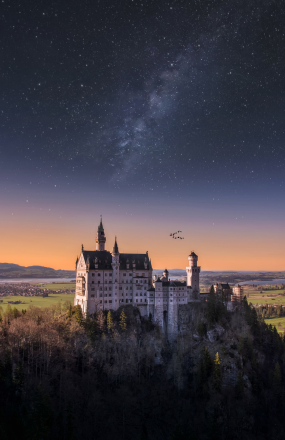
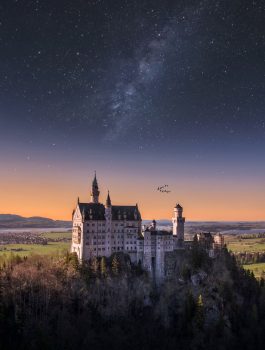
#change to experience Austria

diff --git a/Experience-Austria.html b/Experience-Austria.html
@@ -191,16 +191,30 @@ Come soak up this travel experience with your family and friends and leave with 
 
             <!-- swiper slides -->
             <div class="swiper-wrapper">
-              <div class="swiper-slide explore-slide" style="background: url('./assets/images/slider-1.svg');">
+              <div class="swiper-slide explore-slide" style="background: url('./assets/images/Neuchwanstein-Castle.png');">
                 <h2>Neuchwanstein castle</h2>
               </div>
 
-              <div class="swiper-slide explore-slide" style="background: url('./assets/images/slider-1.svg');">
+              <div class="swiper-slide explore-slide" style="background: url('./assets/images/Highline 179 - Austria.png');">
                 <h2>Self drive to highline 179</h2>
               </div>
 
-              <div class="swiper-slide explore-slide" style="background: url('./assets/images/slider-1.svg');">
+              <div class="swiper-slide explore-slide" style="background: url('./assets/images/Alpine Coaster - ride.png');">
                 <h2>Imst alpine coaster</h2>
+              </div>
+              <div class="swiper-slide explore-slide" style="background: url('./assets/images/Area-47.png');">
+                <h2>Area 47</h2>
+              </div>
+
+              <div class="swiper-slide explore-slide" style="background: url('./assets/images/Solden - Austria.png');">
+                 <h2>Solden 007 elements </h2>
+              </div>
+
+              <div class="swiper-slide explore-slide" style="background: url('./assets/images/Aquadome - Austria.png');">
+                <h2>aquadome</h2>
+              </div>
+              <div class="swiper-slide explore-slide" style="background: url('./assets/images/Paragliding - Austria.png');">
+                <h2>Paragliding in Tyrol</h2>
               </div>
             </div>
             <!-- !swiper slides -->
@@ -435,12 +449,12 @@ Standing 3,040 metres above sea level, this 1,300 square metres space is also fa
   
               <!-- swiper slides -->
               <div class="swiper-wrapper">
-                <div class="swiper-slide experience-slide" style="background: url('./assets/images/instagram-bg.svg');">
-                  <img class="profile-photo" src="assets/images/profile-photo.svg" alt="profile-photo">
+                <div class="swiper-slide experience-slide" style="background: url('./assets/images/Hallstatt - 5 fingers - client.png');">
+                  <!-- <img class="profile-photo" src="assets/images/profile-photo.svg" alt="profile-photo"> -->
                 </div>
   
-                <div class="swiper-slide experience-slide" style="background: url('./assets/images/instagram-bg.svg');">
-                  <img class="profile-photo" src="assets/images/profile-photo.svg" alt="profile-photo">
+                <div class="swiper-slide experience-slide" style="background: url('./assets/images/Innsbruck - Nordekette - Client.png');">
+                  <!-- <img class="profile-photo" src="assets/images/profile-photo.svg" alt="profile-photo"> -->
                 </div>
   
                 <div class="swiper-slide experience-slide" style="background: url('./assets/images/instagram-bg.svg');">
